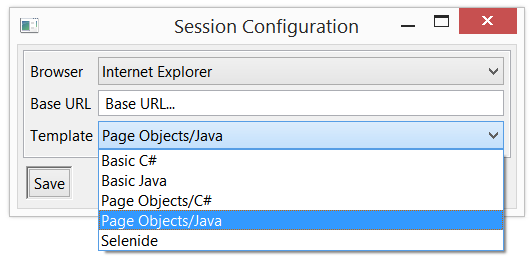
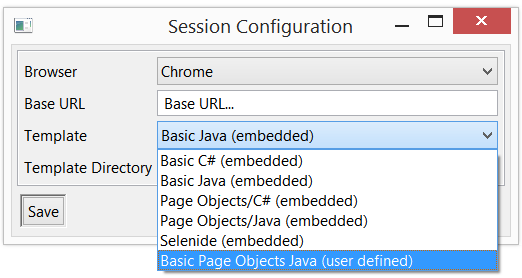
intermediate revision - find the swig files in the scanned the template directory and merge configOptions

diff --git a/swd_recorder/src/main/java/com/mycompany/app/ConfigFormEx.java b/swd_recorder/src/main/java/com/mycompany/app/ConfigFormEx.java
@@ -4,6 +4,7 @@ import java.io.File;
 import java.io.FileReader;
 import java.io.IOException;
 import java.io.StringWriter;
+import java.util.ArrayList;
 import java.util.Arrays;
 import java.util.HashMap;
 import java.util.Iterator;
@@ -39,7 +40,7 @@ import org.json.JSONObject;
 
 /**
  * Session configuration editor form for Selenium Webdriver Elementor Tool
- * 
+ *
  * @author Serguei Kouzmine (kouzmine_serguei@yahoo.com)
  */
 
@@ -51,7 +52,7 @@ public class ConfigFormEx {
 	private Shell shell;
 	private Display display;
 	private static HashMap<String, String> configData = new HashMap<String, String>(); // empty
-	private static HashMap<String, String[]> configOptions = new HashMap<String, String[]>();
+	private static HashMap<String, List<String>> configOptions = new HashMap<String, List<String>>();
 	private int formWidth = 516;
 	private int formHeight = 238;
 	private final static int buttonWidth = 36;
@@ -62,16 +63,19 @@ public class ConfigFormEx {
 
 	ConfigFormEx(Display parentDisplay, Shell parent) {
 
+		configOptions.put("Browser",
+				new ArrayList<String>(Arrays.asList(new String[] { "Chrome", "Firefox",
+						"Internet Explorer", "Edge", "Safari" })));
+		// TODO: Keep few config template inline and
+		// rest up to customer
+		configOptions.put("Template",
+				new ArrayList<String>(
+						Arrays.asList(new String[] { "Basic C# (embedded)", "Basic Java (embedded)",
+								"Page Objects/C# (embedded)", "Page Objects/Java (embedded)", "Selenide (embedded)" })));
+
 		final String dirPath = String.format("%s/src/main/resources/templates",
 				System.getProperty("user.dir"));
 		listFilesForFolder(new File(dirPath));
-
-		configOptions.put("Browser", new String[] { "Chrome", "Firefox",
-				"Internet Explorer", "Edge", "Safari" });
-    // TODO: Keep few config template inline and
-		// rest up to customer
-		configOptions.put("Template", new String[] { "Basic C#", "Basic Java",
-				"Page Objects/C#", "Page Objects/Java", "Selenide" });
 
 		display = (parentDisplay != null) ? parentDisplay : new Display();
 		shell = new Shell(display);
@@ -83,7 +87,7 @@ public class ConfigFormEx {
 					Optional.of(configData));
 		} else {
 			new Utils().readData(
-					"{ \"Browser\": \"Chrome\", \"Template\": \"Basic Java\", }",
+					"{ \"Browser\": \"Chrome\", \"Template\": \"Basic Java (embedded)\", }",
 					Optional.of(configData));
 		}
 	}
@@ -175,7 +179,10 @@ public class ConfigFormEx {
 					configLabel.setText(configKey);
 
 					final Combo configValue = new Combo(this, SWT.READ_ONLY);
-					String items[] = configOptions.get(configKey);
+					List<String> itemsList = configOptions.get(configKey);
+
+					String[] items = new String[itemsList.size()];
+					itemsList.toArray(items);
 					configValue.setItems(items);
 					configValue
 							.select(Arrays.asList(items).indexOf(configData.get(configKey)));
@@ -237,7 +244,8 @@ public class ConfigFormEx {
 
 		}
 	}
-
+	
+	//scan the template directory and merge configOptions.
 	public void listFilesForFolder(final File dir) {
 		FileReader fileReader = null;
 		String contents = null;
@@ -273,12 +281,16 @@ public class ConfigFormEx {
 							Pattern.MULTILINE);
 					Matcher matcherTemplate = patternTemplate.matcher(comment);
 					if (matcherTemplate.find()) {
-            // TODO: scan the template directory and merge configOptions. 
-            templateName = matcherTemplate.group(1);
+						
+						templateName = matcherTemplate.group(1);
 						System.out.println(String.format("got a tag for %s: '%s'",
 								fileEntry.getName(), templateName));
+						List<String> items = configOptions.get("Template");
+						items.add(String.format("%s (user defined)", templateName));
+						configOptions.put("Template", items);
 					} else {
-						System.out.println(String.format("no tag: %s", fileEntry.getName()));
+						System.out
+								.println(String.format("no tag: %s", fileEntry.getName()));
 					}
 				} else {
 					System.out.println(String.format("no tag: %s", fileEntry.getName()));
